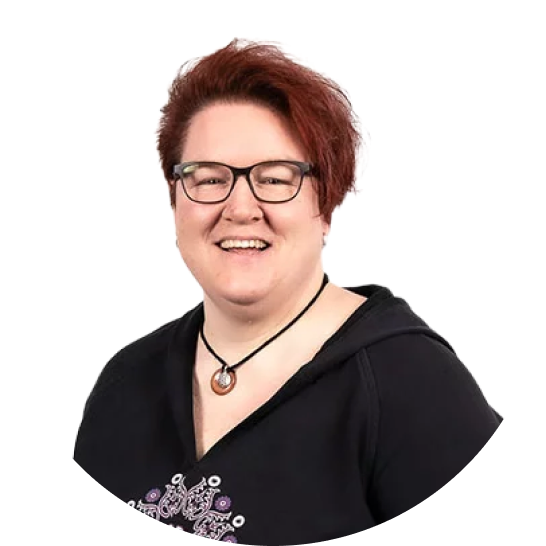
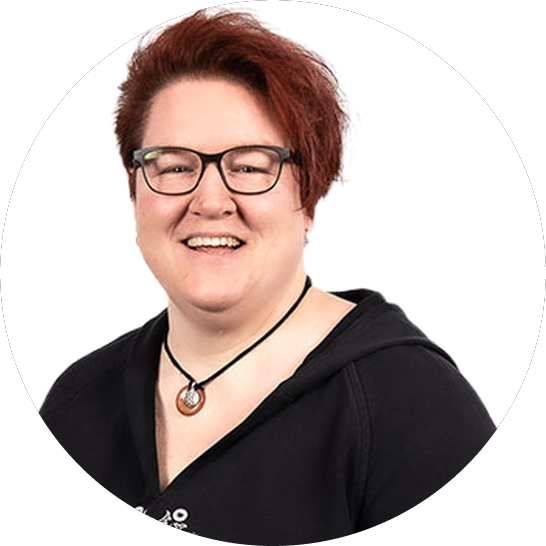
Improve home team section, testimonials carousel, and button sizing.
Add customer testimonial carousel with autoplay, fix Andrea team portraits with circular white frames, align Firmengründung buttons to Figma medium size with single-line labels, and polish team grid and service image cropping.

diff --git a/components/sections/SectionTestimonials.vue b/components/sections/SectionTestimonials.vue
@@ -1,40 +1,123 @@
 <script setup lang="ts">
+  import { computed, onMounted, onUnmounted, ref } from "vue"
   import SectionHeading from "./_SectionHeading.vue"
 
-  defineProps<{
+  const props = defineProps<{
     title: string
-    quote: string
-    author: string
-    role: string
+    items?: { quote: string; author: string; role: string }[]
+    quote?: string
+    author?: string
+    role?: string
     image: string
   }>()
+
+  const slides = computed(() => {
+    if (props.items?.length) return props.items
+    if (props.quote) {
+      return [
+        {
+          quote: props.quote,
+          author: props.author ?? "",
+          role: props.role ?? "",
+        },
+      ]
+    }
+    return []
+  })
+
+  const index = ref(0)
+  const paused = ref(false)
+  let timer: ReturnType<typeof setInterval> | undefined
+
+  const active = computed(() => slides.value[index.value])
+
+  function goTo(next: number) {
+    const total = slides.value.length
+    if (!total) return
+    index.value = ((next % total) + total) % total
+  }
+
+  function next() {
+    goTo(index.value + 1)
+  }
+
+  function prev() {
+    goTo(index.value - 1)
+  }
+
+  function startAutoplay() {
+    stopAutoplay()
+    if (slides.value.length < 2 || paused.value) return
+    timer = setInterval(next, 5000)
+  }
+
+  function stopAutoplay() {
+    if (timer) clearInterval(timer)
+    timer = undefined
+  }
+
+  function pauseAutoplay() {
+    paused.value = true
+    stopAutoplay()
+  }
+
+  function resumeAutoplay() {
+    paused.value = false
+    startAutoplay()
+  }
+
+  onMounted(startAutoplay)
+  onUnmounted(stopAutoplay)
 </script>
 
 <template>
   <section class="w-full py-16">
     <div
       class="flex w-full flex-col items-center gap-9 bg-brand-card px-6 py-16 lg:px-[100px]"
+      @mouseenter="pauseAutoplay"
+      @mouseleave="resumeAutoplay"
     >
       <SectionHeading :title="title" align="center" />
       <div
         class="flex w-full max-w-[1200px] flex-col items-center justify-center gap-12 lg:flex-row lg:gap-[88px]"
       >
         <div class="flex items-center gap-9">
-          <span class="select-none font-serif text-4xl text-brand-blue">‹</span>
+          <button
+            type="button"
+            class="select-none font-serif text-4xl text-brand-blue transition hover:text-brand-blue2"
+            aria-label="Vorheriges Testimonial"
+            @click="prev"
+          >
+            ‹
+          </button>
           <div
+            v-if="active"
             class="flex w-[477px] max-w-full items-center justify-center rounded-[20px] bg-white px-[18px] py-8 drop-shadow-[2px_2px_4px_rgba(0,0,0,0.1)] lg:h-[370px]"
           >
-            <div class="w-[437px] max-w-full font-serif text-brand-blue">
-              <p class="text-[18px] leading-[25px]">{{ quote }}</p>
-              <p class="mt-6 text-[18px] font-bold italic leading-[25px]">
-                - {{ author }}
-              </p>
-              <p class="text-[18px] italic leading-[25px] text-brand-grey">
-                {{ role }}
-              </p>
-            </div>
+            <Transition name="testimonial-fade" mode="out-in">
+              <div
+                :key="index"
+                class="w-[437px] max-w-full font-serif text-brand-blue"
+                aria-live="polite"
+              >
+                <p class="text-[18px] leading-[25px]">{{ active.quote }}</p>
+                <p class="mt-6 text-[18px] font-bold italic leading-[25px]">
+                  - {{ active.author }}
+                </p>
+                <p class="text-[18px] italic leading-[25px] text-brand-grey">
+                  {{ active.role }}
+                </p>
+              </div>
+            </Transition>
           </div>
-          <span class="select-none font-serif text-4xl text-brand-blue">›</span>
+          <button
+            type="button"
+            class="select-none font-serif text-4xl text-brand-blue transition hover:text-brand-blue2"
+            aria-label="Nächstes Testimonial"
+            @click="next"
+          >
+            ›
+          </button>
         </div>
         <img
           :src="image"
@@ -45,3 +128,15 @@
     </div>
   </section>
 </template>
+
+<style scoped>
+  .testimonial-fade-enter-active,
+  .testimonial-fade-leave-active {
+    transition: opacity 0.35s ease;
+  }
+
+  .testimonial-fade-enter-from,
+  .testimonial-fade-leave-to {
+    opacity: 0;
+  }
+</style>

diff --git a/components/sections/_SectionButton.vue b/components/sections/_SectionButton.vue
@@ -1,23 +1,51 @@
 <script setup lang="ts">
-  defineProps<{
-    label: string
-    href?: string
-    block?: boolean
-    narrow?: boolean
-    invert?: boolean
-  }>()
+  import { computed } from "vue"
+
+  type ButtonSize = "fit" | "medium" | "block" | "narrow"
+
+  const props = withDefaults(
+    defineProps<{
+      label: string
+      href?: string
+      size?: ButtonSize
+      invert?: boolean
+      /** @deprecated use size="block" */
+      block?: boolean
+      /** @deprecated use size="narrow" */
+      narrow?: boolean
+    }>(),
+    { size: "fit" },
+  )
+
+  const resolvedSize = computed<ButtonSize>(() => {
+    if (props.block) return "block"
+    if (props.narrow) return "narrow"
+    return props.size
+  })
+
+  const sizeClass = computed(() => {
+    switch (resolvedSize.value) {
+      case "medium":
+        return "h-16 min-w-[273px] w-auto px-6 py-4"
+      case "block":
+        return "h-16 w-[376px] max-w-full px-6 py-4"
+      case "narrow":
+        return "h-16 min-w-[271px] w-auto px-6 py-4"
+      default:
+        return "h-16 w-auto max-w-full px-8 py-4"
+    }
+  })
 </script>
 
 <template>
   <a
     :href="href || '#'"
-    class="inline-flex items-center justify-center rounded-[10px] px-8 py-5 text-center font-serif text-[18px] font-bold transition"
+    class="inline-flex items-center justify-center whitespace-nowrap rounded-[10px] text-center font-serif text-[18px] font-bold leading-[25px] transition"
     :class="[
+      sizeClass,
       invert
         ? 'border border-brand-blue bg-white text-brand-blue hover:bg-brand-card'
         : 'bg-brand-blue text-white hover:bg-brand-blue2',
-      block ? 'w-[376px] max-w-full py-4' : '',
-      narrow ? 'w-[271px] max-w-full py-4' : '',
     ]"
   >
     {{ label }}

diff --git a/components/sections/SectionTeam.vue b/components/sections/SectionTeam.vue
@@ -8,7 +8,6 @@
     intro: string
     bullets?: { bold: string; text: string }[]
     members: { name: string; role: string; description: string; image: string }[]
-    round?: boolean
   }>()
 </script>
 
@@ -34,32 +33,39 @@
         </div>
       </div>
 
-      <div class="flex max-w-[1105px] flex-wrap justify-center gap-x-[60px] gap-y-10">
+      <div
+        class="grid max-w-[1105px] grid-cols-1 justify-items-center gap-x-[60px] gap-y-10 sm:grid-cols-2 lg:grid-cols-3"
+      >
         <div
           v-for="(m, i) of members"
           :key="i"
-          class="relative flex min-h-[740px] w-[273px] flex-col items-center"
+          class="relative flex h-full w-[273px] flex-col items-center"
         >
           <div
-            class="absolute left-0 right-0 top-[132px] h-[600px] rounded-[10px] bg-brand-light/60"
-          />
-          <img
-            :src="m.image"
-            alt=""
-            class="relative z-[1] h-[273px] w-[273px] object-cover"
-            :class="round ? 'rounded-full' : ''"
+            class="absolute left-0 right-0 top-[132px] bottom-0 rounded-[10px] bg-brand-light/60"
           />
           <div
-            class="relative z-[1] mt-4 flex flex-col items-center gap-[15px] px-2 text-center text-brand-blue"
+            class="relative z-[1] h-[273px] w-[273px] shrink-0 overflow-hidden rounded-full bg-white"
           >
-            <p class="font-serif text-[24px] font-bold">{{ m.name }}</p>
-            <p class="whitespace-pre-line font-serif text-[16px] font-bold leading-[25px]">
-              {{ m.role }}
-            </p>
-            <span class="block h-px w-[123px] bg-brand-blue" />
-            <p class="font-serif text-[16px] leading-[25px]">
-              {{ m.description }}
-            </p>
+            <img
+              :src="m.image"
+              alt=""
+              class="h-full w-full object-cover object-top"
+            />
+          </div>
+          <div
+            class="relative z-[1] mt-4 w-full px-2 pb-5 text-center text-brand-blue"
+          >
+            <div class="flex flex-col items-center gap-[15px]">
+              <p class="font-serif text-[24px] font-bold">{{ m.name }}</p>
+              <p class="whitespace-pre-line font-serif text-[16px] font-bold leading-[25px]">
+                {{ m.role }}
+              </p>
+              <span class="block h-px w-[123px] bg-brand-blue" />
+              <p class="font-serif text-[16px] leading-[25px]">
+                {{ m.description }}
+              </p>
+            </div>
           </div>
         </div>
       </div>

diff --git a/components/sections/SectionHero.vue b/components/sections/SectionHero.vue
@@ -9,6 +9,7 @@
       body?: string
       ctaLabel?: string
       ctaHref?: string
+      ctaSize?: "fit" | "medium" | "block" | "narrow"
       image: string
       video?: string
       align?: "left" | "right"
@@ -70,7 +71,12 @@
         >
           {{ body }}
         </p>
-        <SectionButton v-if="ctaLabel" :label="ctaLabel" :href="ctaHref" />
+        <SectionButton
+          v-if="ctaLabel"
+          :label="ctaLabel"
+          :href="ctaHref"
+          :size="ctaSize"
+        />
       </div>
     </div>
   </section>

diff --git a/components/sections/SectionCtaBanner.vue b/components/sections/SectionCtaBanner.vue
@@ -10,6 +10,7 @@
     body: string
     ctaLabel: string
     ctaHref?: string
+    ctaSize?: "fit" | "medium" | "block" | "narrow"
   }>()
 </script>
 
@@ -45,7 +46,11 @@
           >
             {{ body }}
           </p>
-          <SectionButton :label="ctaLabel" :href="ctaHref" />
+          <SectionButton
+            :label="ctaLabel"
+            :href="ctaHref"
+            :size="ctaSize ?? 'fit'"
+          />
         </div>
       </div>
     </div>

diff --git a/components/sections/SectionPricing.vue b/components/sections/SectionPricing.vue
@@ -83,7 +83,7 @@
               :label="plan.ctaLabel"
               :href="plan.ctaHref"
               :invert="plan.featured"
-              class="w-[273px] max-w-full"
+              size="medium"
             />
           </div>
 

diff --git a/components/sections/SectionServiceColumns.vue b/components/sections/SectionServiceColumns.vue
@@ -22,7 +22,7 @@
       <img
         :src="image"
         alt=""
-        class="h-[391px] w-full max-w-[993px] rounded-[10px] object-cover"
+        class="h-[430px] w-full max-w-[993px] rounded-[10px] object-cover object-top sm:h-[450px] lg:h-[470px]"
       />
 
       <div class="flex w-full flex-wrap items-stretch justify-center gap-9">

diff --git a/components/sections/SectionTextMedia.vue b/components/sections/SectionTextMedia.vue
@@ -9,6 +9,7 @@
     reverse?: boolean
     ctaLabel?: string
     ctaHref?: string
+    ctaSize?: "fit" | "medium" | "block" | "narrow"
   }>()
 </script>
 
@@ -36,6 +37,7 @@
           v-if="ctaLabel"
           :label="ctaLabel"
           :href="ctaHref"
+          :size="ctaSize"
         />
       </div>
       <div class="w-full shrink-0 lg:h-[413px] lg:w-[582px]">